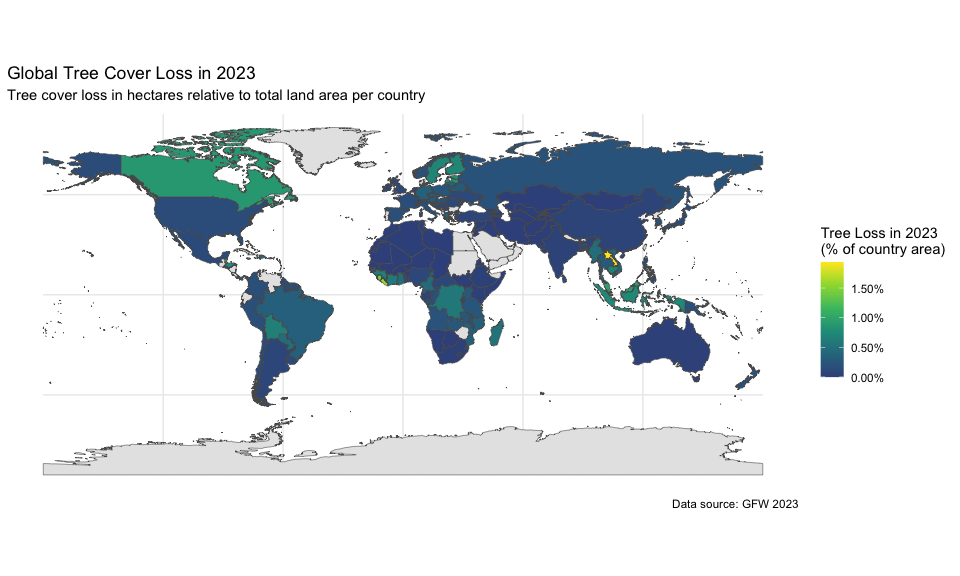
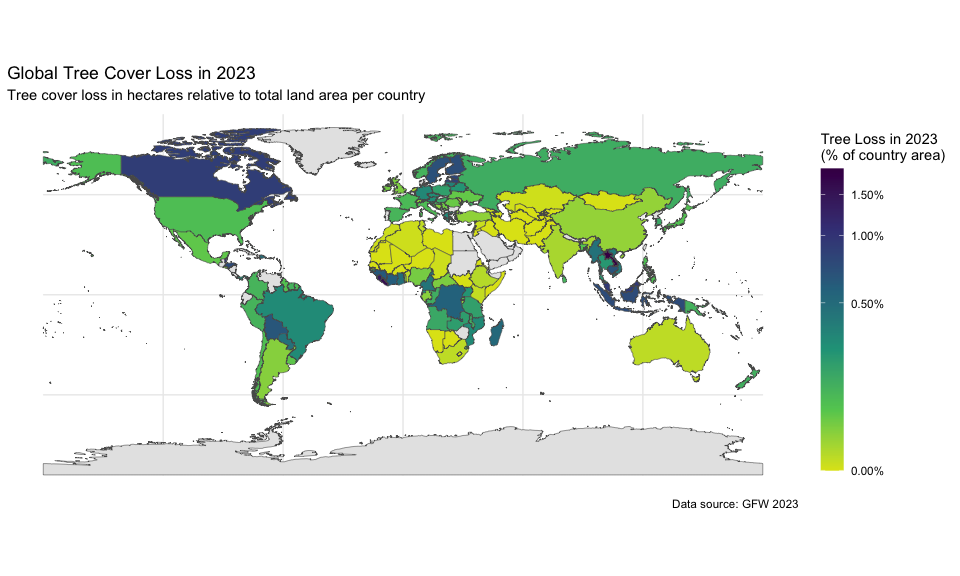
added updated knitted md-file

diff --git a/Projects/Bene-Klein/hd25viet.md b/Projects/Bene-Klein/hd25viet.md
@@ -1,12 +1,42 @@
     library(readxl)
-    library(dplyr)
-    library(tidyr)
+    library(tidyverse)
+
+    ## ── Attaching core tidyverse packages ──────────────────────── tidyverse 2.0.0 ──
+    ## ✔ dplyr     1.1.4     ✔ readr     2.1.5
+    ## ✔ forcats   1.0.0     ✔ stringr   1.5.1
+    ## ✔ ggplot2   3.5.1     ✔ tibble    3.2.1
+    ## ✔ lubridate 1.9.4     ✔ tidyr     1.3.1
+    ## ✔ purrr     1.0.4     
+    ## ── Conflicts ────────────────────────────────────────── tidyverse_conflicts() ──
+    ## ✖ dplyr::filter() masks stats::filter()
+    ## ✖ dplyr::lag()    masks stats::lag()
+    ## ℹ Use the conflicted package (<http://conflicted.r-lib.org/>) to force all conflicts to become errors
+
     library(purrr)
-    library(ggplot2)
     library(broom) # For one-row summary of model containing R^2
+    library(janitor)
+
+    ## 
+    ## Attaching package: 'janitor'
+    ## 
+    ## The following objects are masked from 'package:stats':
+    ## 
+    ##     chisq.test, fisher.test
+
     library(rnaturalearth) # For World map canvas
     library(rnaturalearthdata) # For World map
+
+    ## 
+    ## Attaching package: 'rnaturalearthdata'
+    ## 
+    ## The following object is masked from 'package:rnaturalearth':
+    ## 
+    ##     countries110
+
     library(sf) # For simplified spatial data
+
+    ## Linking to GEOS 3.13.0, GDAL 3.8.5, PROJ 9.5.1; sf_use_s2() is TRUE
+
     library(countrycode)
 
 ## 1) Loading Data
@@ -23,7 +53,10 @@
     data_raw <- read_excel(
       path = tempfile_path,
       sheet = "Country tree cover loss"
-    ) %>% janitor::clean_names()
+    ) %>% clean_names()
+
+    # clean up tmpfile
+    unlink(tempfile_path)
 
 ## 2) Data Wrangling
 
@@ -54,14 +87,11 @@
 
 ## 3) Fitting and Predicting
 
-    # Fitting with map()
+    # Fitting and predict 2050 values via predict()
     nested <- nested %>%
       mutate(
         model = map(data, ~ lm(loss_ha ~ poly(year, 2), data = .x))
-      )
-
-    # Predict 2050 values via predict()
-    nested <- nested %>%
+      ) %>%
       mutate(
         prediction_2050 = map(model, ~ predict(.x, newdata = data.frame(year = 2050), se.fit = TRUE)),
         expected_tc_ha_2050 = map_dbl(prediction_2050, ~ .x$fit),
@@ -194,11 +224,15 @@
       geom_sf(aes(fill = tc_loss_pct_2023)) +
       scale_fill_viridis_c(
         name = "Tree Loss in 2023\n(% of country area)",
-        begin = 0.25,
-        end = 1,
+        begin = 0.95,
+        end = 0,
         labels = scales::percent_format(accuracy = 0.01),
+        trans= scales::pseudo_log_trans(sigma = 0.001),
         na.value = "grey90"
       ) +
+      guides(fill = guide_colorbar(
+      barheight = unit(8, "cm")  # ← increase length here
+    ))+
       labs(
         title = "Global Tree Cover Loss in 2023",
         subtitle = "Tree cover loss in hectares relative to total land area per country",
